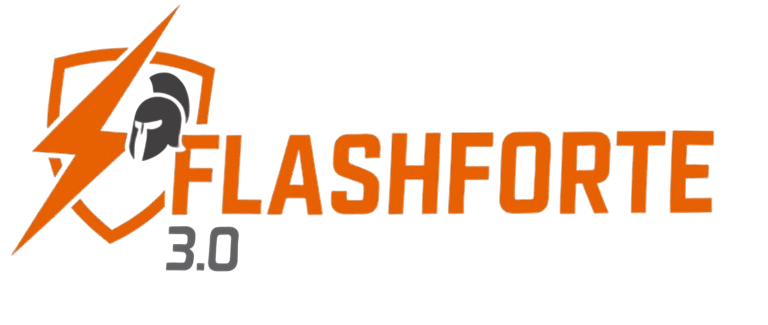
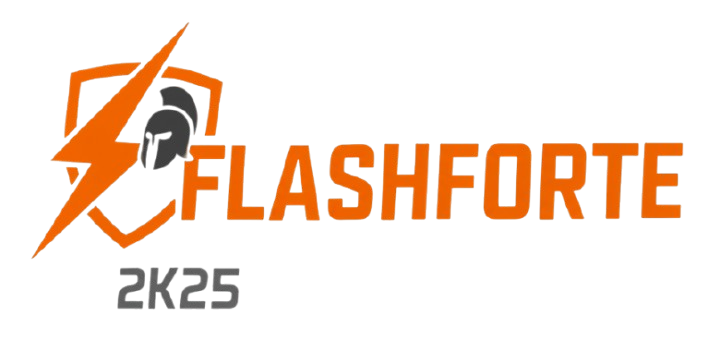
changed few

Changed region(s): [[0.031, 0.0615, 0.9619, 0.8923], [0.2172, 0.0308, 0.2482, 0.0615], [0.0, 0.7385, 0.031, 0.7692]]

diff --git a/src/pages/Index.tsx b/src/pages/Index.tsx
@@ -111,7 +111,7 @@ const Index = () => {
               <h1 className="text-6xl md:text-8xl font-bold mb-4 bg-gradient-to-r from-orange-500 via-orange-400 to-cyan-400 bg-clip-text text-transparent">
                 FlashForte
               </h1>
-              <span className="text-3xl md:text-4xl font-bold text-gray-400 mb-2">3.0</span>
+              <span className="text-3xl md:text-4xl font-bold text-gray-400 mb-2">2k25</span>
             </div>
             <p className="text-2xl md:text-3xl text-cyan-400 font-light tracking-wider">
               One Event. Many Realities.
@@ -215,7 +215,7 @@ const Index = () => {
     </div>
 
     <p className="text-gray-400 mb-8">
-      © 2025 FlashForte. All rights reserved. | One Event. Many Realities.
+      © FlashForte 2k25. All rights reserved. | One Event. Many Realities.
     </p>
 
   </div>
